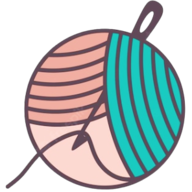
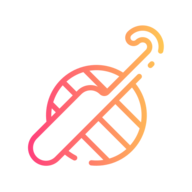
ll

diff --git a/index.html b/index.html
@@ -17,7 +17,7 @@
     <link rel="icon" type="image/png" sizes="16x16" href="/favicon-16x16.png">
     <link rel="manifest" href="/site.webmanifest">
     <link rel="mask-icon" href="/safari-pinned-tab.svg" color="#5bbad5">
-    <meta name="msapplication-TileColor" content="#da532c">
+    <meta name="msapplication-TileColor" content="#ffc40d">
     <meta name="theme-color" content="#ffffff">
 
     <title>نسيج</title>
@@ -26,7 +26,7 @@
   <body>
     <section class="header">
       <nav>
-        <a href="index.html"><img src="/assets/img/logo1.png" /></a>
+        <a href="index.html"><img src="/assets/img/logo.png" /></a>
         <div class="nav-links" id="navLinks">
           <i class="fa fa-times" onclick="hideMenu()"></i>
           <ul>
